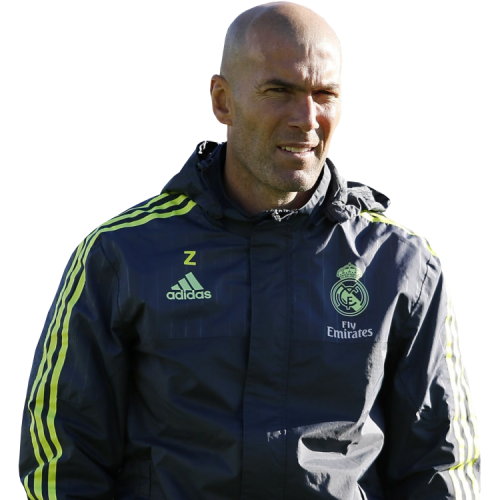
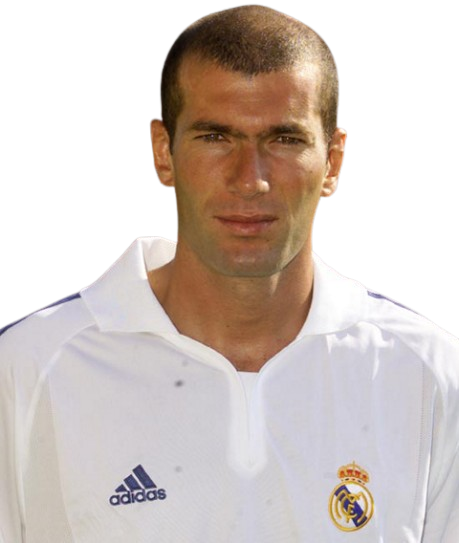
Fix soccer collection count, rarity filter overlap, and Cantona/Zidane faces.

diff --git a/src/components/CardPacksScreen.tsx b/src/components/CardPacksScreen.tsx
@@ -1013,8 +1013,8 @@ export function CardPacksScreen({
   }
 
   const pityLeft = Math.max(1, 35 - profile.cardCollection.legendaryPity);
-  const sportOwned = Object.keys(profile.cardCollection.owned).filter(
-    key => key.startsWith(`${sport}:`) && (profile.cardCollection.owned[key] ?? 0) > 0,
+  const sportOwned = CARDS_BY_SPORT[sport].filter(
+    card => (profile.cardCollection.owned[card.key] ?? 0) > 0,
   ).length;
 
   return (
@@ -1226,12 +1226,12 @@ export function CardPacksScreen({
                         setRarityFilter(event.target.value as CardRarity | 'all');
                         setVisibleCount(48);
                       }}
-                      className="game-chip h-full appearance-none !rounded-2xl pr-8 capitalize outline-none"
+                      className="game-chip h-full appearance-none !rounded-2xl !pr-10 capitalize outline-none"
                     >
                       <option value="all">All rarities</option>
                       {Object.keys(RARITY_META).map(rarity => <option key={rarity}>{rarity}</option>)}
                     </select>
-                    <ChevronDown className="pointer-events-none absolute right-2 top-1/2 h-4 w-4 -translate-y-1/2 text-[#6d6f78]" />
+                    <ChevronDown className="pointer-events-none absolute right-2.5 top-1/2 h-3.5 w-3.5 -translate-y-1/2 text-[#6d6f78]" />
                   </label>
                   <button
                     type="button"

diff --git a/src/lib/playerFaces.ts b/src/lib/playerFaces.ts
@@ -13,7 +13,7 @@ import type { Sport } from '../types';
 const CACHE_KEY = 'sportivia.playerFaces.v3';
 const BIO_CACHE_KEY = 'sportivia.playerCardBios.v1';
 /** Bump to force a full face-cache refresh after portrait pipeline changes. */
-const REFETCH_MARK = 'sportivia.playerFaces.refetch.v23';
+const REFETCH_MARK = 'sportivia.playerFaces.refetch.v24';
 const LEGACY_SOCCER_KEY = 'sportivia.soccerFaces.v1';
 const SPORTSDB = 'https://www.thesportsdb.com/api/v1/json/123/searchplayers.php';
 const WIKI = 'https://en.wikipedia.org/api/rest_v1/page/summary';